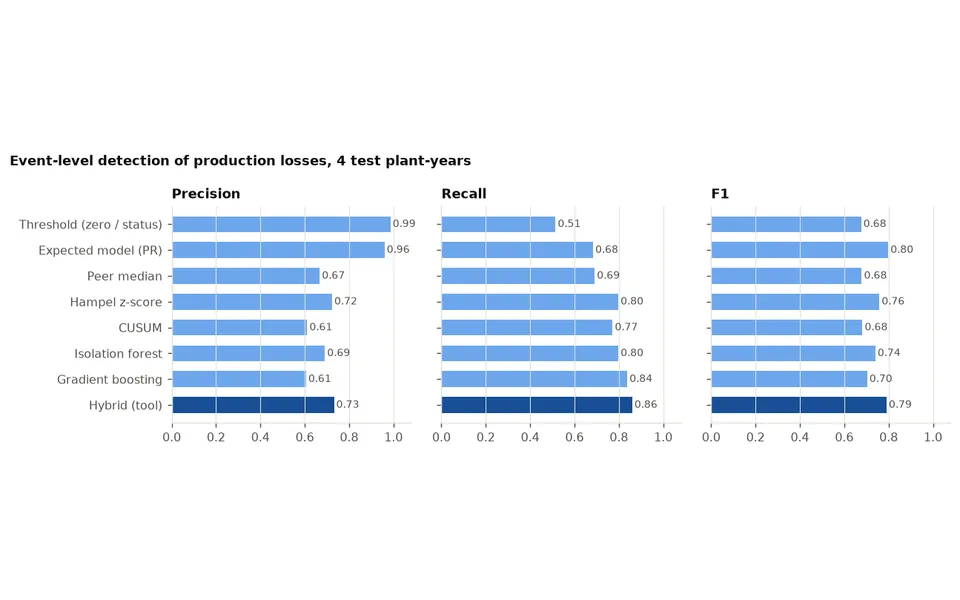
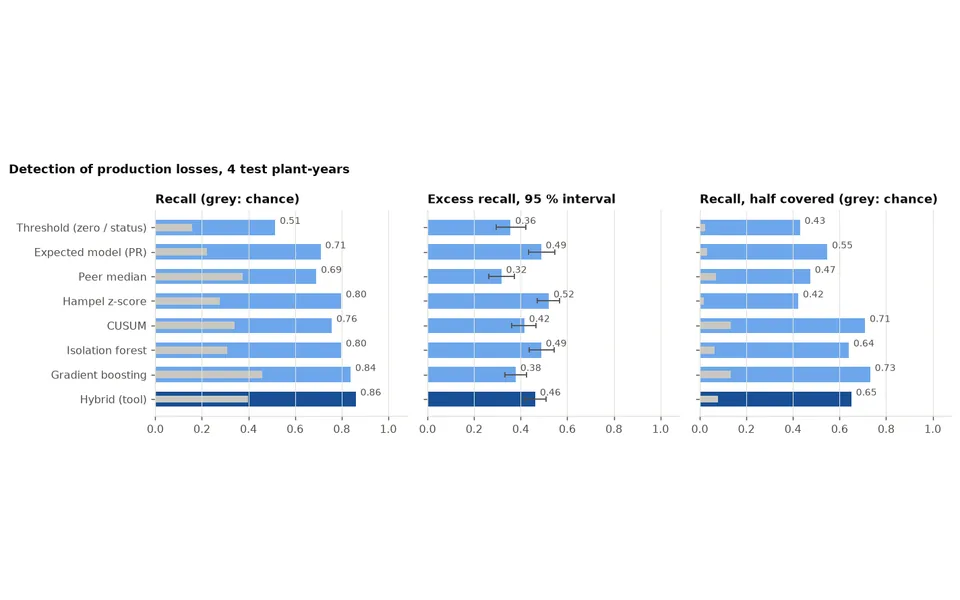
Update PV outage and thermal cards, add two corrections

Changed region(s): [[0.0, 0.24, 0.6875, 0.75], [0.6875, 0.3, 0.9688, 0.75]]

diff --git a/corrections.html b/corrections.html
@@ -134,9 +134,9 @@ td + td { white-space: nowrap; }
     <h1>Corrections</h1>
     <p class="dek">Every project here is re-read from time to time by an independent reviewer who gets the code and the data, not the conclusions. When a headline number or a conclusion does not hold, it is corrected in the repository and listed below: what was claimed, what is claimed now and why. Results that only reproduced are not listed.</p>
   </header>
-  <section class="corr"><h2><a href="https://github.com/kwwaleszczynski-del/wind-om-reliability">wind-om-reliability</a><span class="when">15 Nov 2026</span></h2><dl><dt>Was</dt><dd>Crow-AMSAA separates an improving fleet (Kelmarsh, beta 0.82) from a deteriorating one (Penmanshiel, beta 1.12); Hill of Towie improves to 4-5 failures per turbine-year.</dd><dt>Now</dt><dd>Kelmarsh still improves (beta 0.81, 0.76-0.91). Penmanshiel shows no clear trend (0.95, 0.89-1.01). The Hill of Towie trend is not assessed.</dd><dt>Why</dt><dd>The Penmanshiel figure came from repeating alarms on three turbines and an interval that assumed independent events; the trend is now fitted on repeat chains with a turbine bootstrap. The Hill of Towie code dictionary was built from one year, so other years were not comparable. Failure counts are now published with their sensitivity to the counting rule (Kelmarsh 3.6-8.2, Penmanshiel 10.8-19.3 per turbine-year).</dd></dl></section><section class="corr"><h2><a href="https://github.com/kwwaleszczynski-del/pl-bess-paper-trading">pl-bess-paper-trading</a><span class="when">15 Nov 2026</span></h2><dl><dt>Was</dt><dd>A battery that trades on paper every day; scheduled runs start 30-60 minutes late and one day has no plan.</dd><dt>Now</dt><dd>Of the first 20 live days 6 have a plan and 14 do not; the model earned 11.7 % of perfect foresight over all days and 52 % on the days it traded. The live record is too short for conclusions.</dd><dt>Why</dt><dd>GitHub started the scheduled runs 6-10 hours late, after the market gate, so most mornings made no plan; the plans that exist were started by an external trigger. The ledger itself was checked and is append-only: no plan was made after prices were known.</dd></dl></section><section class="corr"><h2><a href="https://github.com/kwwaleszczynski-del/pl-capture-price">pl-capture-price</a><span class="when">15 Nov 2026</span></h2><dl><dt>Was</dt><dd>Every 10 pp of PV share costs PV about 0.20 of value factor; a PV build-out scenario of 0.58 (+20 %) and 0.49 (+50 %), backed by a hindcast.</dd><dt>Now</dt><dd>The within-month slope is -1.69 with a standard error of 1.12, not significant; the scenario gives 0.59 (0.52-0.66) and 0.51 (0.35-0.68). No simple model beats repeating last year&#x27;s value (MAE 0.080 against 0.081). RCE is described as PSE&#x27;s reference price, not the SDAC price.</dd><dt>Why</dt><dd>The pooled slope was mostly seasonal, and the hindcast had been fitted with months after the target. The 2025 capture rates (PV 0.64, wind 0.94) did not change.</dd></dl></section><section class="corr"><h2><a href="https://github.com/kwwaleszczynski-del/pl-res-curtailment">pl-res-curtailment</a><span class="when">15 Nov 2026</span></h2><dl><dt>Was</dt><dd>Announced PV curtailment before the reports API: 520 GWh, covering 91 % of the regulator&#x27;s figure for 2024.</dd><dt>Now</dt><dd>517.3 GWh, equal to 90 % of the regulator&#x27;s figure; the announcement volumes are stated as announced orders, 63 % of them published before the hour began.</dd><dt>Why</dt><dd>24 September 2024 was counted in both sources, and ordered power is not a subset of the energy the regulator reports. Annual totals from the reports API did not change.</dd></dl></section><section class="corr"><h2><a href="https://github.com/kwwaleszczynski-del/pse-opendata">pse-opendata</a><span class="when">15 Nov 2026</span></h2><dl><dt>Was</dt><dd>Cross-border flow report documented as one signed row per border.</dd><dt>Now</dt><dd>Two directional rows per border (import and export components), with a helper that nets them; an optional check re-downloads a cached month that PSE republished later (version 0.2.1).</dd><dt>Why</dt><dd>Reading one row as the net flow gave +85 MW instead of -613 MW for the Czech border in one test week. A month cached before a late republication was served as final.</dd></dl></section><section class="corr"><h2><a href="https://github.com/kwwaleszczynski-del/res-asset-kpi">res-asset-kpi</a><span class="when">12 Nov 2026</span></h2><dl><dt>Was</dt><dd>KPI functions accepted records with gaps and returned a number.</dd><dt>Now</dt><dd>A window with missing meter data has no round-trip efficiency instead of a low one, missing expected power gives no energy availability instead of zero loss, partial sums are not reported as full intervals, and constants standing in for missing information raise a warning (versions 0.1.1 and 0.1.2).</dd><dt>Why</dt><dd>Missing data were silently counted as zeros: one missing discharge hour moved a daily RTE from 0.64 to 0.48 with the result still marked valid.</dd></dl></section><section class="corr"><h2><a href="https://github.com/kwwaleszczynski-del/wind-downtime-availability">wind-downtime-availability</a><span class="when">12 Nov 2026</span></h2><dl><dt>Was</dt><dd>The category a stop is booked under moves warranty availability more than detecting the stop does: 97.9 % becomes 93.5 %.</dd><dt>Now</dt><dd>One mis-booked farm-wide stop can outweigh all detection error: 4.1 of those 4.4 pp are a single 15-day park-controller stop. Without it the scenario costs 0.3 pp, about the size of the detection error.</dd><dt>Why</dt><dd>The headline rested on one event of one farm-year. Cause classification is also reported by stop time now (rules right for 21 % and 68 %), and at one farm it makes availability worse than no classification.</dd></dl></section><section class="corr"><h2><a href="https://github.com/kwwaleszczynski-del/bess-ops-warranty">bess-ops-warranty</a><span class="when">12 Nov 2026</span></h2><dl><dt>Was</dt><dd>Batteries are technically available (95.8 %) but commercially much less is offered (78.1 %).</dd><dt>Now</dt><dd>For the median battery only 3.2 % of the registered power is declared and not offered; five of 38 batteries hold back a third or more. The 95.8 % is an upper bound (capability within 24 hours&#x27; notice).</dd><dt>Why</dt><dd>The gap counted every interval in which an empty battery offered less; with more than 10 % of the energy stored, offered availability is 94.1 %.</dd></dl></section><section class="corr"><h2><a href="https://github.com/kwwaleszczynski-del/pl-forecast-bench">pl-forecast-bench</a><span class="when">12 Nov 2026</span></h2><dl><dt>Was</dt><dd>Intraday models beat the PSE plan by 20-26 %.</dd><dt>Now</dt><dd>Intraday models beat PSE&#x27;s day-ahead plan by 10-26 %, and by 10-21 % against the plan rescaled for its bias; day-ahead intervals are wider than published.</dd><dt>Why</dt><dd>Part of the plan&#x27;s error is curtailment and a systematic over-forecast (wind +225 MW on average, +1,300 MW at prices at or below zero), and the bootstrap had treated days as independent.</dd></dl></section><section class="corr"><h2><a href="https://github.com/kwwaleszczynski-del/wind-les-gpu">wind-les-gpu</a><span class="when">12 Nov 2026</span></h2><dl><dt>Was</dt><dd>The LES reproduces the measured farm wake loss (9.8 % against 9.2 %) and the deep-wake sectors, with the lowest error of four models.</dd><dt>Now</dt><dd>The pooled loss matches as closely as the Gaussian model; split by wind speed and turbulence, part of the match is averaging (3 pp low in the most frequent sector at 5-8 m/s, high at 8-10 m/s). The ranking claim is dropped.</dd><dt>Why</dt><dd>One speed ratio was applied to all 5-10 m/s records, and the 0.6 pp gap sits inside the uncertainty of how the measured loss is defined.</dd></dl></section><section class="corr"><h2><a href="https://github.com/kwwaleszczynski-del/pv-budget-bridge">pv-budget-bridge</a><span class="when">12 Nov 2026</span></h2><dl><dt>Was</dt><dd>Outage and curtailment losses come back within 0.5 % of a known truth; PR 0.63-0.67 on the real rooftops.</dd><dt>Now</dt><dd>A 3-day outage injected into real and synthetic plants comes back within 1 %, a curtailment that binds within 3-7 %; the 0.5 % on the synthetic plant is labelled a best case. PR 0.65-0.68 on intervals with complete data.</dd><dt>Why</dt><dd>The synthetic truth followed the estimator&#x27;s own bookkeeping, an outage under a partial set-point was over-charged to availability, and the summary PR counted data gaps as zero production.</dd></dl></section><section class="corr"><h2><a href="https://github.com/kwwaleszczynski-del/scada-fault-bench">scada-fault-bench</a><span class="when">12 Nov 2026</span></h2><dl><dt>Was</dt><dd>Best F1 0.40 on wind and 0.53 on PV; recall 0.08-0.75 on 12 real faults.</dd><dt>Now</dt><dd>Every method detects more than chance on injected faults, but much of the raw recall is coincidence (a z-score reaches 0.91 on wind with 0.68 by chance). Best excess recall 0.42 on wind and 0.37 on PV; on the 12 real faults no method is distinguishable from chance.</dd><dt>Why</dt><dd>An alarm anywhere in a one-to-three-week window counted as a detection. Detection now requires an alarm on affected rows and is reported next to a placebo.</dd></dl></section><section class="corr"><h2><a href="https://github.com/kwwaleszczynski-del/bess-reporting-kit">bess-reporting-kit</a><span class="when">12 Nov 2026</span></h2><dl><dt>Was</dt><dd>A 200 MW battery earned 122 % of its as-of benchmark; at fleet scale the revenue stack stays above day-ahead arbitrage.</dd><dt>Now</dt><dd>The battery earned 99 % of a benchmark that has its own limits; at 2,000 MW the stack keeps 10-21 % of the lone battery&#x27;s margin and crosses day-ahead arbitrage on the lower bound.</dd><dt>Why</dt><dd>The benchmark battery was smaller than the real one, and the fleet model was not a fixed point, so it is now given as two bounds.</dd></dl></section><section class="corr"><h2><a href="https://github.com/kwwaleszczynski-del/scada-schema">scada-schema</a><span class="when">12 Nov 2026</span></h2><dl><dt>Was</dt><dd>Loaders wrote the CARE benchmark&#x27;s power in kW and found the PVDAQ unit switch only when it fell inside the loaded period.</dd><dt>Now</dt><dd>CARE power is stored as a scaled, dimensionless signal; the PVDAQ unit is detected from the power level; La Haute Borne&#x27;s clock is reconstructed and 96 ambiguous rows are dropped (version 0.1.1).</dd><dt>Why</dt><dd>CARE power is normalised by the source, and a file that starts after the switch was read 100 times too high.</dd></dl></section>
+  <section class="corr"><h2><a href="https://github.com/kwwaleszczynski-del/pv-outage-classifier">pv-outage-classifier</a><span class="when">16 Nov 2026</span></h2><dl><dt>Was</dt><dd>The hybrid detector has the highest recall (0.86) and the expected model the best F1 (0.80); all real outages on the PVDAQ roofs are found; fleet availability 98.3-99.0 %.</dd><dt>Now</dt><dd>Much of the recall is coincidence: the hybrid&#x27;s alarms shifted in time by whole days still find 40 % of the events. By excess recall Hampel, the isolation forest, the expected model and the hybrid are level (0.46-0.52), and the order changes under a stricter rule. Soiling is barely detected (8 % of episodes half covered). Availability in 2016 is 98.3 %, 95.8 % or 91.4 % depending on how gaps in the inverter data are counted.</dd><dt>Why</dt><dd>One alarm anywhere inside an event that lasts weeks counted as a detection, and the real outages are defined by the same zero-output rule the threshold detector uses. Outages that continued as data gaps were taken out of the availability denominator. The site set-up is now tuned on 2016 and reported on 2017-2018.</dd></dl></section><section class="corr"><h2><a href="https://github.com/kwwaleszczynski-del/pv-thermal-check">pv-thermal-check</a><span class="when">16 Nov 2026</span></h2><dl><dt>Was</dt><dd>The cells run 19 K above the back-of-module sensor, the signature of a loose sensor; injected sensor faults are found on all 40 start dates; corrected PR leaves a winter dip explained by shading and an autumn decline by soiling.</dd><dt>Now</dt><dd>The gap is 15-20 K depending on the calibration and rests on one 12-day open-circuit window; a loose sensor is one explanation among others. With no fault injected, 20 % of the start dates already count as detected, so detection is reported on the 32 clean start dates. The residual PR pattern depends on the irradiance scaling and is not attributed to a cause. Annual temperature loss 10.9 % (was 10.5-10.8 %), Poland 3.5-4.5 % (was 3.2-4.2 %).</dd><dt>Why</dt><dd>The clean record has an alarm of its own inside the detection horizon of 8 start dates; the seasonal residual changes sign between one irradiance scale factor and month-specific factors; and the cell model had used the STC efficiency instead of the measured operating efficiency.</dd></dl></section><section class="corr"><h2><a href="https://github.com/kwwaleszczynski-del/wind-om-reliability">wind-om-reliability</a><span class="when">15 Nov 2026</span></h2><dl><dt>Was</dt><dd>Crow-AMSAA separates an improving fleet (Kelmarsh, beta 0.82) from a deteriorating one (Penmanshiel, beta 1.12); Hill of Towie improves to 4-5 failures per turbine-year.</dd><dt>Now</dt><dd>Kelmarsh still improves (beta 0.81, 0.76-0.91). Penmanshiel shows no clear trend (0.95, 0.89-1.01). The Hill of Towie trend is not assessed.</dd><dt>Why</dt><dd>The Penmanshiel figure came from repeating alarms on three turbines and an interval that assumed independent events; the trend is now fitted on repeat chains with a turbine bootstrap. The Hill of Towie code dictionary was built from one year, so other years were not comparable. Failure counts are now published with their sensitivity to the counting rule (Kelmarsh 3.6-8.2, Penmanshiel 10.8-19.3 per turbine-year).</dd></dl></section><section class="corr"><h2><a href="https://github.com/kwwaleszczynski-del/pl-bess-paper-trading">pl-bess-paper-trading</a><span class="when">15 Nov 2026</span></h2><dl><dt>Was</dt><dd>A battery that trades on paper every day; scheduled runs start 30-60 minutes late and one day has no plan.</dd><dt>Now</dt><dd>Of the first 20 live days 6 have a plan and 14 do not; the model earned 11.7 % of perfect foresight over all days and 52 % on the days it traded. The live record is too short for conclusions.</dd><dt>Why</dt><dd>GitHub started the scheduled runs 6-10 hours late, after the market gate, so most mornings made no plan; the plans that exist were started by an external trigger. The ledger itself was checked and is append-only: no plan was made after prices were known.</dd></dl></section><section class="corr"><h2><a href="https://github.com/kwwaleszczynski-del/pl-capture-price">pl-capture-price</a><span class="when">15 Nov 2026</span></h2><dl><dt>Was</dt><dd>Every 10 pp of PV share costs PV about 0.20 of value factor; a PV build-out scenario of 0.58 (+20 %) and 0.49 (+50 %), backed by a hindcast.</dd><dt>Now</dt><dd>The within-month slope is -1.69 with a standard error of 1.12, not significant; the scenario gives 0.59 (0.52-0.66) and 0.51 (0.35-0.68). No simple model beats repeating last year&#x27;s value (MAE 0.080 against 0.081). RCE is described as PSE&#x27;s reference price, not the SDAC price.</dd><dt>Why</dt><dd>The pooled slope was mostly seasonal, and the hindcast had been fitted with months after the target. The 2025 capture rates (PV 0.64, wind 0.94) did not change.</dd></dl></section><section class="corr"><h2><a href="https://github.com/kwwaleszczynski-del/pl-res-curtailment">pl-res-curtailment</a><span class="when">15 Nov 2026</span></h2><dl><dt>Was</dt><dd>Announced PV curtailment before the reports API: 520 GWh, covering 91 % of the regulator&#x27;s figure for 2024.</dd><dt>Now</dt><dd>517.3 GWh, equal to 90 % of the regulator&#x27;s figure; the announcement volumes are stated as announced orders, 63 % of them published before the hour began.</dd><dt>Why</dt><dd>24 September 2024 was counted in both sources, and ordered power is not a subset of the energy the regulator reports. Annual totals from the reports API did not change.</dd></dl></section><section class="corr"><h2><a href="https://github.com/kwwaleszczynski-del/pse-opendata">pse-opendata</a><span class="when">15 Nov 2026</span></h2><dl><dt>Was</dt><dd>Cross-border flow report documented as one signed row per border.</dd><dt>Now</dt><dd>Two directional rows per border (import and export components), with a helper that nets them; an optional check re-downloads a cached month that PSE republished later (version 0.2.1).</dd><dt>Why</dt><dd>Reading one row as the net flow gave +85 MW instead of -613 MW for the Czech border in one test week. A month cached before a late republication was served as final.</dd></dl></section><section class="corr"><h2><a href="https://github.com/kwwaleszczynski-del/res-asset-kpi">res-asset-kpi</a><span class="when">12 Nov 2026</span></h2><dl><dt>Was</dt><dd>KPI functions accepted records with gaps and returned a number.</dd><dt>Now</dt><dd>A window with missing meter data has no round-trip efficiency instead of a low one, missing expected power gives no energy availability instead of zero loss, partial sums are not reported as full intervals, and constants standing in for missing information raise a warning (versions 0.1.1 and 0.1.2).</dd><dt>Why</dt><dd>Missing data were silently counted as zeros: one missing discharge hour moved a daily RTE from 0.64 to 0.48 with the result still marked valid.</dd></dl></section><section class="corr"><h2><a href="https://github.com/kwwaleszczynski-del/wind-downtime-availability">wind-downtime-availability</a><span class="when">12 Nov 2026</span></h2><dl><dt>Was</dt><dd>The category a stop is booked under moves warranty availability more than detecting the stop does: 97.9 % becomes 93.5 %.</dd><dt>Now</dt><dd>One mis-booked farm-wide stop can outweigh all detection error: 4.1 of those 4.4 pp are a single 15-day park-controller stop. Without it the scenario costs 0.3 pp, about the size of the detection error.</dd><dt>Why</dt><dd>The headline rested on one event of one farm-year. Cause classification is also reported by stop time now (rules right for 21 % and 68 %), and at one farm it makes availability worse than no classification.</dd></dl></section><section class="corr"><h2><a href="https://github.com/kwwaleszczynski-del/bess-ops-warranty">bess-ops-warranty</a><span class="when">12 Nov 2026</span></h2><dl><dt>Was</dt><dd>Batteries are technically available (95.8 %) but commercially much less is offered (78.1 %).</dd><dt>Now</dt><dd>For the median battery only 3.2 % of the registered power is declared and not offered; five of 38 batteries hold back a third or more. The 95.8 % is an upper bound (capability within 24 hours&#x27; notice).</dd><dt>Why</dt><dd>The gap counted every interval in which an empty battery offered less; with more than 10 % of the energy stored, offered availability is 94.1 %.</dd></dl></section><section class="corr"><h2><a href="https://github.com/kwwaleszczynski-del/pl-forecast-bench">pl-forecast-bench</a><span class="when">12 Nov 2026</span></h2><dl><dt>Was</dt><dd>Intraday models beat the PSE plan by 20-26 %.</dd><dt>Now</dt><dd>Intraday models beat PSE&#x27;s day-ahead plan by 10-26 %, and by 10-21 % against the plan rescaled for its bias; day-ahead intervals are wider than published.</dd><dt>Why</dt><dd>Part of the plan&#x27;s error is curtailment and a systematic over-forecast (wind +225 MW on average, +1,300 MW at prices at or below zero), and the bootstrap had treated days as independent.</dd></dl></section><section class="corr"><h2><a href="https://github.com/kwwaleszczynski-del/wind-les-gpu">wind-les-gpu</a><span class="when">12 Nov 2026</span></h2><dl><dt>Was</dt><dd>The LES reproduces the measured farm wake loss (9.8 % against 9.2 %) and the deep-wake sectors, with the lowest error of four models.</dd><dt>Now</dt><dd>The pooled loss matches as closely as the Gaussian model; split by wind speed and turbulence, part of the match is averaging (3 pp low in the most frequent sector at 5-8 m/s, high at 8-10 m/s). The ranking claim is dropped.</dd><dt>Why</dt><dd>One speed ratio was applied to all 5-10 m/s records, and the 0.6 pp gap sits inside the uncertainty of how the measured loss is defined.</dd></dl></section><section class="corr"><h2><a href="https://github.com/kwwaleszczynski-del/pv-budget-bridge">pv-budget-bridge</a><span class="when">12 Nov 2026</span></h2><dl><dt>Was</dt><dd>Outage and curtailment losses come back within 0.5 % of a known truth; PR 0.63-0.67 on the real rooftops.</dd><dt>Now</dt><dd>A 3-day outage injected into real and synthetic plants comes back within 1 %, a curtailment that binds within 3-7 %; the 0.5 % on the synthetic plant is labelled a best case. PR 0.65-0.68 on intervals with complete data.</dd><dt>Why</dt><dd>The synthetic truth followed the estimator&#x27;s own bookkeeping, an outage under a partial set-point was over-charged to availability, and the summary PR counted data gaps as zero production.</dd></dl></section><section class="corr"><h2><a href="https://github.com/kwwaleszczynski-del/scada-fault-bench">scada-fault-bench</a><span class="when">12 Nov 2026</span></h2><dl><dt>Was</dt><dd>Best F1 0.40 on wind and 0.53 on PV; recall 0.08-0.75 on 12 real faults.</dd><dt>Now</dt><dd>Every method detects more than chance on injected faults, but much of the raw recall is coincidence (a z-score reaches 0.91 on wind with 0.68 by chance). Best excess recall 0.42 on wind and 0.37 on PV; on the 12 real faults no method is distinguishable from chance.</dd><dt>Why</dt><dd>An alarm anywhere in a one-to-three-week window counted as a detection. Detection now requires an alarm on affected rows and is reported next to a placebo.</dd></dl></section><section class="corr"><h2><a href="https://github.com/kwwaleszczynski-del/bess-reporting-kit">bess-reporting-kit</a><span class="when">12 Nov 2026</span></h2><dl><dt>Was</dt><dd>A 200 MW battery earned 122 % of its as-of benchmark; at fleet scale the revenue stack stays above day-ahead arbitrage.</dd><dt>Now</dt><dd>The battery earned 99 % of a benchmark that has its own limits; at 2,000 MW the stack keeps 10-21 % of the lone battery&#x27;s margin and crosses day-ahead arbitrage on the lower bound.</dd><dt>Why</dt><dd>The benchmark battery was smaller than the real one, and the fleet model was not a fixed point, so it is now given as two bounds.</dd></dl></section><section class="corr"><h2><a href="https://github.com/kwwaleszczynski-del/scada-schema">scada-schema</a><span class="when">12 Nov 2026</span></h2><dl><dt>Was</dt><dd>Loaders wrote the CARE benchmark&#x27;s power in kW and found the PVDAQ unit switch only when it fell inside the loaded period.</dd><dt>Now</dt><dd>CARE power is stored as a scaled, dimensionless signal; the PVDAQ unit is detected from the power level; La Haute Borne&#x27;s clock is reconstructed and 96 ambiguous rows are dropped (version 0.1.1).</dd><dt>Why</dt><dd>CARE power is normalised by the source, and a file that starts after the switch was read 100 times too high.</dd></dl></section>
   <footer>
-    <p>14 corrections. Updated 16 Nov 2026.</p>
+    <p>16 corrections. Updated 16 Nov 2026.</p>
   </footer>
 </div>
 </body>

diff --git a/index.html b/index.html
@@ -434,7 +434,7 @@ td + td { white-space: nowrap; }
         <div class="meta"><span class="group g-pv">Solar PV</span></div>
         <h3><a href="https://github.com/kwwaleszczynski-del/pv-outage-classifier">PV outages: detection, cause and availability</a></h3>
         <p class="summary">Seven ways to find production losses at string, inverter and meter level (threshold, expected PR model, peer median, Hampel, CUSUM, isolation forest, gradient boosting) plus a hybrid, cause classification, lost energy and IEC 61724-1 style availability on a simulated plant with ground truth, real PVDAQ data and an open shading dataset.</p>
-        <p class="highlight">Requiring events of at least 1 h lifts the hybrid detector&#x27;s event precision from 0.14 to 0.74 and cuts false alarms from 2.9 to 0.13 per device-year; thresholds tuned on simulation give 257 alarms per inverter-year on real roofs, a short site set-up brings it to 6 with all real outages still found.</p>
+        <p class="highlight">The hybrid detector finds 86 % of the simulated events, but the same alarms shifted in time would find 40 %; by excess recall four methods are level (0.46-0.52) and none dominates. Requiring events of at least 1 h lifts event precision from 0.14 to 0.74. On real roofs a site set-up tuned on 2016 gives 6.7 other alarms per inverter-year in 2017-2018, and availability moves by up to 7 pp with how data gaps are counted.</p>
         <ul class="tags"><li>outage detection</li><li>IEC 61724-1</li><li>NREL PVDAQ</li></ul>
         <div class="links"><a class="btn" href="https://github.com/kwwaleszczynski-del/pv-outage-classifier">Code</a><a class="btn primary" href="https://kwwaleszczynski-del.github.io/pv-outage-classifier/">Live page &#8599;</a></div>
       </div>
@@ -447,7 +447,7 @@ td + td { white-space: nowrap; }
         <div class="meta"><span class="group g-pv">Solar PV</span></div>
         <h3><a href="https://github.com/kwwaleszczynski-del/pv-thermal-check">PV thermal check: modules, inverter, transformer</a></h3>
         <p class="summary">Module temperature models (Faiman, SAPM, PVsyst, Ross) fitted on PVDAQ data with cell temperature recovered from open-circuit voltage, temperature-corrected PR, sensor-fault detection, inverter and transformer thermal checks, and losses moved to Poland.</p>
-        <p class="highlight">The back-of-module sensor saw only about half of the real heating: thermal losses are 10.5 % a year, not 6.7 %; temperature-corrected PR cuts the seasonal spread from 13.1 to 4.8 pp.</p>
+        <p class="highlight">Open-circuit-voltage thermometry puts the cells 15-20 K above the back-of-module sensor in full sun: the sensor reads about half of the heating, so thermal losses are 10.9 % a year, not 6.6 %. Temperature-corrected PR cuts the seasonal spread from 13-16 pp to 5-7 pp, depending on how the irradiance sensor is scaled.</p>
         <ul class="tags"><li>pvlib</li><li>IEC 61724-1</li><li>NREL PVDAQ</li></ul>
         <div class="links"><a class="btn" href="https://github.com/kwwaleszczynski-del/pv-thermal-check">Code</a><a class="btn primary" href="https://kwwaleszczynski-del.github.io/pv-thermal-check/">Live page &#8599;</a></div>
       </div>
